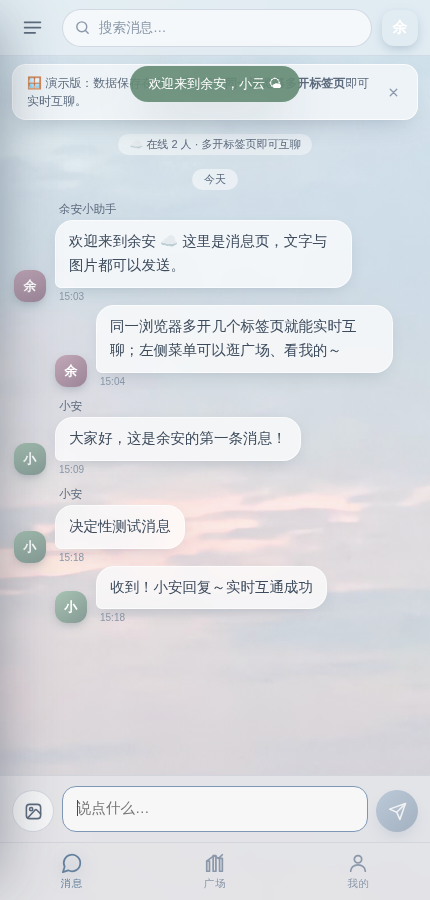
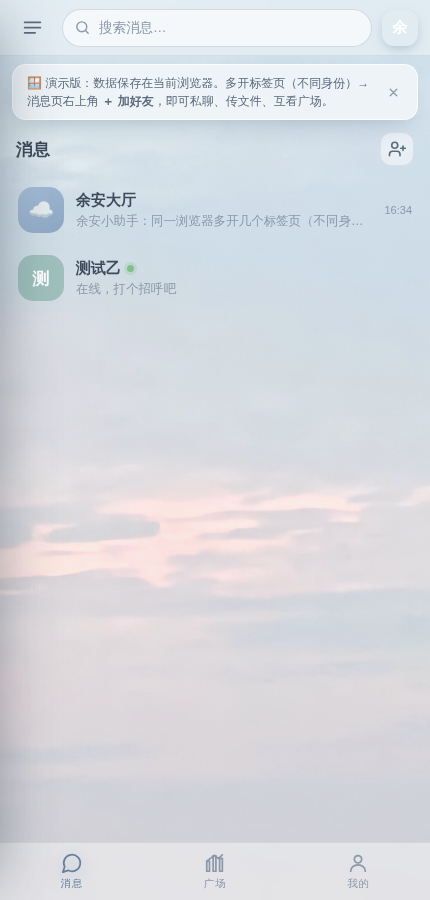
v3.1：好友管理完善
- 新增「我的好友」管理弹窗：查看 TA 的广场 / 发起私聊 / 解除好友
- 解除好友双方实时同步（fdel 广播），聊天记录一并清除
- 解除后广场动态可见性实时降级（仅自己与好友可见）
- 好友请求接受时同步刷新已打开的好友管理列表
- 修复昵称修改时的重复提示
- 版本标识更新为 v3，README 补充好友系统说明
- 更新会话页与我的页截图（v3 界面）

diff --git a/index.html b/index.html
@@ -332,6 +332,12 @@
   .peer-name{flex:1;font-size:14px;font-weight:600;color:var(--ink);white-space:nowrap;overflow:hidden;text-overflow:ellipsis}
   .peer-add{padding:6px 13px;border-radius:10px;background:#6d8bad;color:#fff;font-size:12.5px;border:none;cursor:pointer;font-weight:600}
   .peer-add:active{transform:scale(.94)}
+  .fr-act{padding:6px 11px;border-radius:10px;border:none;cursor:pointer;font-size:12.5px;font-weight:600;flex-shrink:0}
+  .fr-act:active{transform:scale(.94)}
+  .fr-act.a-sq{background:rgba(109,139,173,.16);color:#5f7f9f}
+  .fr-act.a-chat{background:#6d8bad;color:#fff}
+  .fr-act.a-del{background:rgba(217,138,154,.18);color:#b06b7c}
+  .btn-block{width:100%}
   .freq-body{display:flex;align-items:center;gap:13px;padding:6px 2px 14px}
   .freq-ava{width:52px;height:52px;border-radius:16px;display:flex;align-items:center;justify-content:center;color:#fff;font-size:21px;font-weight:700;flex-shrink:0}
   .freq-txt{display:flex;flex-direction:column;gap:3px}
@@ -633,6 +639,18 @@
       </div>
     </div>
 
+    <!-- 我的好友（管理） -->
+    <div class="modal" id="modalFriends">
+      <div class="sheet">
+        <h3>我的好友 <button class="x" data-close="modalFriends"><svg viewBox="0 0 24 24" fill="none" stroke="currentColor" stroke-width="2.4" stroke-linecap="round"><path d="M6 6l12 12M18 6L6 18"/></svg></button></h3>
+        <p class="modal-tip">与好友可私聊、传文件、互看广场；解除后聊天记录将一并清除，双方实时同步。</p>
+        <div id="friendRows" class="peer-list"></div>
+        <div class="modal-btns">
+          <button class="btn btn-main btn-block" id="btnGoAddFriend">＋ 添加好友</button>
+        </div>
+      </div>
+    </div>
+
     <!-- 图片查看 -->
     <div id="viewer">
       <button id="viewerClose" aria-label="关闭"><svg viewBox="0 0 24 24" fill="none" stroke="currentColor" stroke-width="2.4" stroke-linecap="round"><path d="M6 6l12 12M18 6L6 18"/></svg></button>
@@ -903,11 +921,19 @@
       case 'fok':
         if (m.to !== myId || isFriend(m.from.id)) return;
         friends.push({ id: m.from.id, name: m.from.name, since: now() }); saveFriends();
-        renderConvo(); renderMe(); updateDots();
+        renderConvo(); renderMe(); renderFriends(); updateDots();
         toast('🎉 ' + m.from.name + ' 已和你成为好友'); break;
       case 'fno':
         if (m.to !== myId) return;
         toast(m.from.name + ' 暂未接受好友请求'); break;
+      case 'fdel':
+        if (m.to !== myId || m.from.id === myId) return;
+        if (!isFriend(m.from.id)) return;
+        doUnfriend(m.from.id);
+        if ($('modalFSquare').classList.contains('on')) closeModal('modalFSquare');
+        if ($('modalFriends').classList.contains('on')) renderFriends();
+        toast('💔 ' + m.from.name + ' 解除了与你的好友关系');
+        break;
       case 'fr':
         if (m.to !== myId || m.msg.from.id === myId) return;
         if (!isFriend(m.msg.from.id)) return;
@@ -1043,6 +1069,52 @@
     closeModal('modalFreq');
     toast('已拒绝好友请求');
   };
+
+  /* ---- 好友管理与解除 ---- */
+  function doUnfriend(fid) {
+    friends = friends.filter(function (x) { return x.id !== fid; }); saveFriends();
+    delete dm[fid]; delete unread[fid]; saveDm(); saveUnread();
+    delete typingMap['f:' + fid];
+    if (chatTarget && chatTarget.id === fid) exitRoom(); else renderConvo();
+    renderSquare(); renderMe(); renderFriends(); updateDots();
+  }
+  function unfriend(fid) {
+    var f = friendById(fid); if (!f) return;
+    if (!confirm('确定解除与「' + f.name + '」的好友关系吗？\n双方的私聊记录将一并清除。')) return;
+    doUnfriend(fid);
+    sendBus({ t: 'fdel', from: { id: myId, name: me.name }, to: fid });
+    toast('已解除与 ' + f.name + ' 的好友关系');
+  }
+  function openFriends() { openModal('modalFriends'); renderFriends(); }
+  function renderFriends() {
+    var el = $('friendRows'); if (!el) return;
+    if (!friends.length) {
+      el.innerHTML = '<div class="picker-empty">还没有好友<br>点下方「添加好友」，即可私聊、传文件、互看广场</div>';
+      return;
+    }
+    var html = '';
+    friends.forEach(function (f) {
+      var online = peerOnline(f.id);
+      html += '<div class="peer-row">'
+        + '<div class="peer-ava" style="background:' + colorOf(f.name) + '">' + esc(f.name.charAt(0).toUpperCase()) + '</div>'
+        + '<div class="peer-name">' + esc(f.name)
+        + (online ? ' <span class="on-dot"></span>' : '')
+        + (f.id.indexOf('c:') === 0 ? ' <span class="badge-cloud">云端</span>' : '') + '</div>'
+        + '<button class="fr-act a-sq" data-act="sq" data-fid="' + esc(f.id) + '">广场</button>'
+        + '<button class="fr-act a-chat" data-act="chat" data-fid="' + esc(f.id) + '">私聊</button>'
+        + '<button class="fr-act a-del" data-act="del" data-fid="' + esc(f.id) + '">解除</button></div>';
+    });
+    el.innerHTML = html;
+    el.querySelectorAll('.fr-act').forEach(function (b) {
+      b.onclick = function () {
+        var f = friendById(b.dataset.fid); if (!f) return;
+        if (b.dataset.act === 'sq') { closeModal('modalFriends'); openFriendSquare(f.id); }
+        else if (b.dataset.act === 'chat') { closeModal('modalFriends'); switchPage('chat'); enterRoom(f); }
+        else unfriend(f.id);
+      };
+    });
+  }
+  $('btnGoAddFriend').onclick = function () { closeModal('modalFriends'); openAddFriend(); };
 
   /* ---- TA 的广场 ---- */
   function openFriendSquare(fid) {
@@ -1417,7 +1489,7 @@
       + '<div class="name-edit"><input id="renameInput" maxlength="20" placeholder="修改显示昵称" value="' + esc(me.name) + '"><button id="renameBtn">保存</button></div>'
       + '</div>'
       + '<div class="me-card">'
-      + '<div class="me-row" id="meFriends"><svg viewBox="0 0 24 24" fill="none" stroke="currentColor" stroke-width="2" stroke-linecap="round" stroke-linejoin="round"><path d="M16 21v-2a4 4 0 0 0-4-4H6a4 4 0 0 0-4 4v2"/><circle cx="9" cy="7" r="4"/><path d="M20 8v6M23 11h-6"/></svg>我的好友<span class="hint">' + friends.length + ' 位 · 私聊 / 传文件 / 互看广场</span></div>'
+      + '<div class="me-row" id="meFriends"><svg viewBox="0 0 24 24" fill="none" stroke="currentColor" stroke-width="2" stroke-linecap="round" stroke-linejoin="round"><path d="M16 21v-2a4 4 0 0 0-4-4H6a4 4 0 0 0-4 4v2"/><circle cx="9" cy="7" r="4"/><path d="M20 8v6M23 11h-6"/></svg>我的好友<span class="hint">' + friends.length + ' 位 · 管理 / 私聊 / 互看广场</span></div>'
       + '<div class="me-row" id="meShareDiary"><svg viewBox="0 0 24 24" fill="none" stroke="currentColor" stroke-width="2" stroke-linecap="round" stroke-linejoin="round"><path d="M4 19.5v-15A2.5 2.5 0 0 1 6.5 2H20v20H6.5a2.5 2.5 0 0 1 0-5H20"/></svg>分享碎碎念日记到广场<span class="hint">' + (cloud ? '已连接云端' : '需云端登录') + '</span></div>'
       + '<div class="me-row" onclick="window.open(\'https://shimucheng12-art.github.io/life/\',\'_blank\')"><svg viewBox="0 0 24 24" fill="none" stroke="currentColor" stroke-width="2" stroke-linecap="round" stroke-linejoin="round"><path d="M12 20h9M16.5 3.5a2.1 2.1 0 0 1 3 3L7 19l-4 1 1-4Z"/></svg>打开碎碎念网页版<span class="arrow">→</span></div>'
       + '<div class="me-row" id="meSettings"><svg viewBox="0 0 24 24" fill="none" stroke="currentColor" stroke-width="2" stroke-linecap="round" stroke-linejoin="round"><circle cx="12" cy="12" r="3"/><path d="M19.4 15a1.65 1.65 0 0 0 .33 1.82l.06.06a2 2 0 1 1-2.83 2.83l-.06-.06a1.65 1.65 0 0 0-1.82-.33 1.65 1.65 0 0 0-1 1.51V21a2 2 0 1 1-4 0v-.09a1.65 1.65 0 0 0-1-1.51 1.65 1.65 0 0 0-1.82.33l-.06.06a2 2 0 1 1-2.83-2.83l.06-.06a1.65 1.65 0 0 0 .33-1.82 1.65 1.65 0 0 0-1.51-1H3a2 2 0 1 1 0-4h.09a1.65 1.65 0 0 0 1.51-1 1.65 1.65 0 0 0-.33-1.82l-.06-.06a2 2 0 1 1 2.83-2.83l.06.06a1.65 1.65 0 0 0 1.82.33h.01a1.65 1.65 0 0 0 1-1.51V3a2 2 0 1 1 4 0v.09a1.65 1.65 0 0 0 1 1.51h.01a1.65 1.65 0 0 0 1.82-.33l.06-.06a2 2 0 1 1 2.83 2.83l-.06.06a1.65 1.65 0 0 0-.33 1.82v.01a1.65 1.65 0 0 0 1.51 1H21a2 2 0 1 1 0 4h-.09a1.65 1.65 0 0 0-1.51 1z"/></svg>设置<span class="arrow">→</span></div>'
@@ -1425,17 +1497,17 @@
       + '<div class="me-card">'
       + '<div class="me-row" id="meLogout"><svg viewBox="0 0 24 24" fill="none" stroke="currentColor" stroke-width="2" stroke-linecap="round" stroke-linejoin="round"><path d="M9 21H5a2 2 0 0 1-2-2V5a2 2 0 0 1 2-2h4M16 17l5-5-5-5M21 12H9"/></svg>' + (cloud ? '退出云端登录' : '退出游客身份') + '<span class="arrow">→</span></div>'
       + '</div>'
-      + '<div class="me-note">余安 · 演示版 v2<br>云端账号与碎碎念 APP 互通 · 消息与广场数据存于本地浏览器<br><a href="https://github.com/shimucheng12-art/yu-an" target="_blank" style="color:var(--accent-deep)">GitHub 源码</a></div>';
+      + '<div class="me-note">余安 · 演示版 v3<br>云端账号与碎碎念 APP 互通 · 好友私聊与广场数据存于本地浏览器<br><a href="https://github.com/shimucheng12-art/yu-an" target="_blank" style="color:var(--accent-deep)">GitHub 源码</a></div>';
     $('meScroll').innerHTML = html;
     $('renameBtn').onclick = function () {
       var v = $('renameInput').value.trim();
       if (v.length < 2 || v.length > 20) { toast('昵称需为 2-20 个字符'); return; }
       if (!/^[\u4e00-\u9fa5A-Za-z0-9_-]+$/.test(v)) { toast('仅支持中文、字母、数字、下划线和连字符'); return; }
-      me.name = v; try { sessionStorage.setItem(K_ME, JSON.stringify(me)); } catch (e) { } renderMe(); renderSide(); toast('昵称已更新');
+      me.name = v; try { sessionStorage.setItem(K_ME, JSON.stringify(me)); } catch (e) { } renderMe(); renderSide();
       $('topAvatar').textContent = v.trim().charAt(0).toUpperCase();
       toast('昵称已更新', true);
     };
-    $('meFriends').onclick = function () { switchPage('chat'); exitRoom(); openAddFriend(); };
+    $('meFriends').onclick = function () { openFriends(); };
     $('meShareDiary').onclick = function () {
       if (!getCloudAuth()) { toast('请先退出并以碎碎念云端账号登录'); return; }
       $('btnFromDiary').click();
@@ -1463,7 +1535,7 @@
   };
   $('setAbout').onclick = function () {
     closeModal('modalSettings');
-    toast('余安 v2 · 浮云深处，岁岁余安 🌤', true);
+    toast('余安 v3 · 浮云深处，岁岁余安 🌤', true);
   };
 
   /* ================= 搜索 ================= */

diff --git a/README.md b/README.md
@@ -1,6 +1,6 @@
 # 余安 · 浮云深处，岁岁余安
 
-一个轻盈的沟通小站：**消息 · 广场**，与「碎碎念」APP 账号云端互通。
+一个轻盈的沟通小站：**消息 · 好友 · 广场**，与「碎碎念」APP 账号云端互通。
 
 **[🌐 在线体验](https://shimucheng12-art.github.io/yu-an/)**
 
@@ -15,9 +15,16 @@
 ## ✨ 功能
 
 ### 💬 消息
-- 文字 + 图片消息，图片自动压缩、点击查看大图
-- 同一浏览器**多开标签页即可实时互聊**（BroadcastChannel）
-- 在线人数、正在输入提示、历史消息搜索、日期分组
+- 消息页为**会话列表**：余安大厅 + 好友私聊，未读红点（底部标签 / 侧栏 / 会话行）
+- 大厅：文字 + 图片消息，图片自动压缩、点击查看大图，在线人数、正在输入提示、日期分组
+- 私聊：**文字、图片、文件传输**（≤2MB，可点击下载），实时互通
+- 历史消息搜索
+
+### 👥 好友
+- 在线用户发起好友请求 → 对方弹窗确认，双向实时同步
+- 好友管理（「我的 → 我的好友」）：查看 TA 的广场 / 发起私聊 / **解除好友**（双方同步，聊天记录一并清除）
+- 广场权限：动态**仅自己与好友可见**，非好友互不可见
+- 好友广场主页：点好友名或私聊页按钮，查看 TA 的全部动态
 
 ### 🏞 广场
 - 发布图文动态，点赞互动
